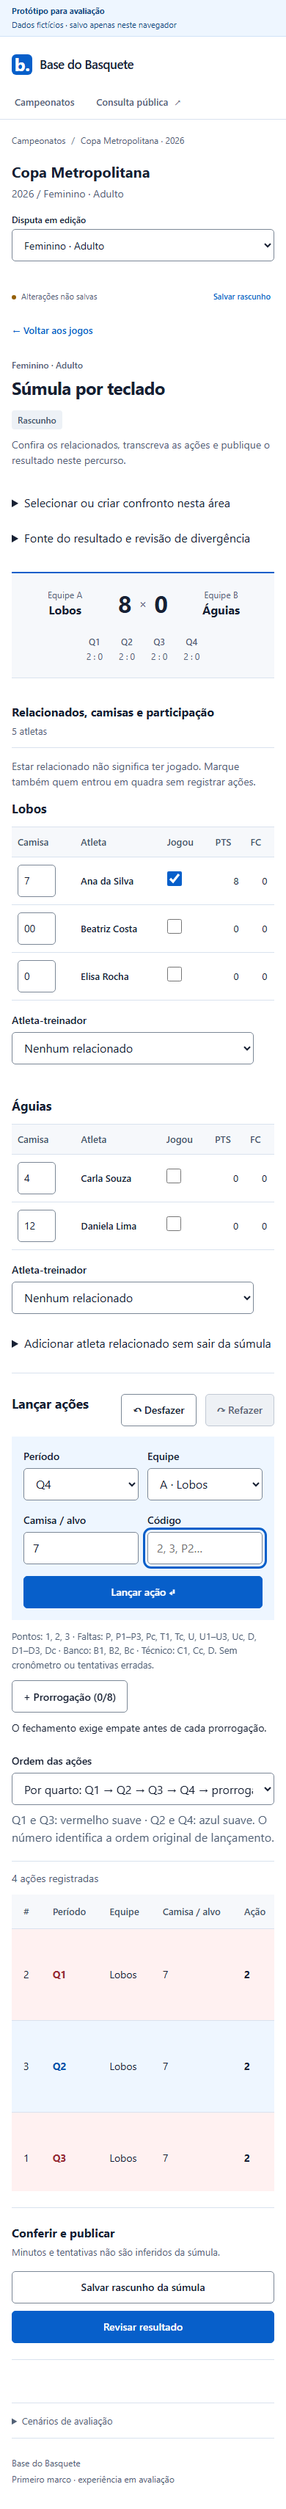
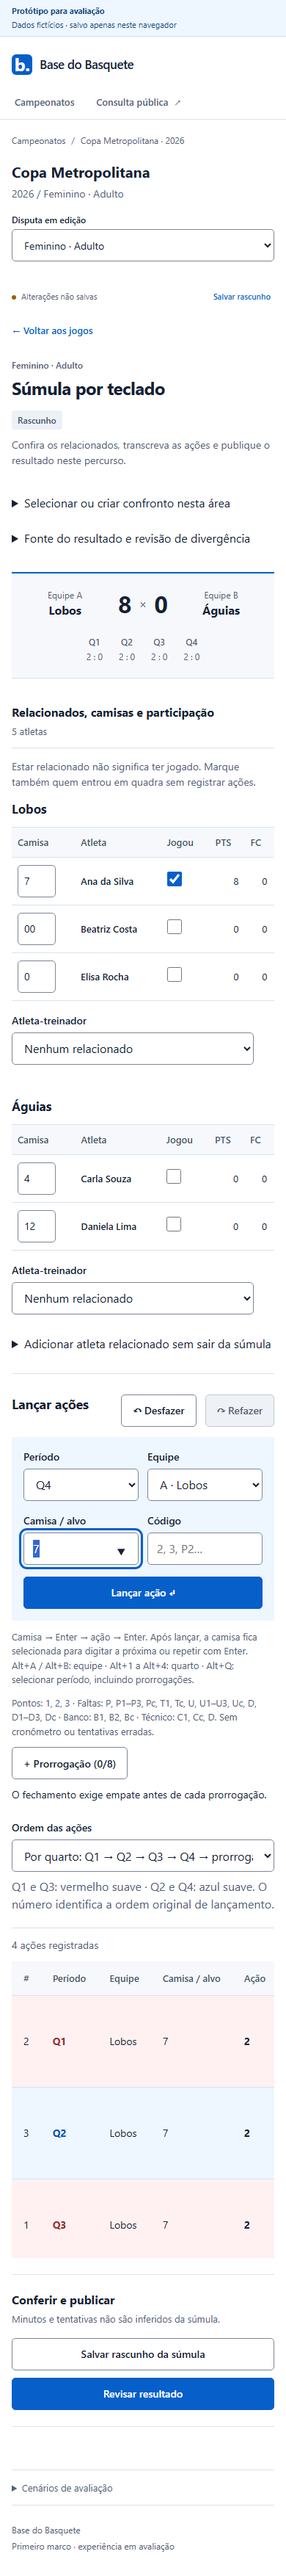
feat: enter scoresheet actions in a continuous keyboard cycle

diff --git a/src/scoresheet/workspace.tsx b/src/scoresheet/workspace.tsx
@@ -50,7 +50,39 @@ export function ScoresheetWorkspace({
     jersey: "",
   });
   const codeRef = useRef<HTMLInputElement>(null);
+  const targetRef = useRef<HTMLInputElement>(null);
+  const periodRef = useRef<HTMLSelectElement>(null);
   const deleteConfirmRef = useRef<HTMLHeadingElement>(null);
+  const focusTarget = () => {
+    targetRef.current?.focus();
+    targetRef.current?.select();
+  };
+  useEffect(() => {
+    const shortcut = (event: KeyboardEvent) => {
+      if (
+        !event.altKey ||
+        event.ctrlKey ||
+        event.metaKey ||
+        event.shiftKey ||
+        event.isComposing
+      )
+        return;
+      const key = event.key.toLowerCase();
+      if (!["a", "b", "q", "1", "2", "3", "4"].includes(key)) return;
+      event.preventDefault();
+      if (event.repeat) return;
+      if (key === "q") {
+        periodRef.current?.focus();
+        return;
+      }
+      if (key === "a" || key === "b") setSide(key === "a" ? "home" : "away");
+      else setPeriod(Number(key));
+      targetRef.current?.focus();
+      targetRef.current?.select();
+    };
+    window.addEventListener("keydown", shortcut);
+    return () => window.removeEventListener("keydown", shortcut);
+  }, []);
   useEffect(() => {
     deleteConfirmRef.current?.focus();
   }, [deletingId]);
@@ -65,36 +97,74 @@ export function ScoresheetWorkspace({
       return false;
     }
   };
+  const checkedTarget = () => {
+    const value = target.trim().toUpperCase();
+    if (
+      !["B", "C"].includes(value) &&
+      !sheet.roster.some((slot) => slot.side === side && slot.jersey === value)
+    ) {
+      setError(
+        "Camisa não relacionada à equipe selecionada. Confira a camisa ou use B/C.",
+      );
+      focusTarget();
+      return null;
+    }
+    setTarget(value);
+    return value;
+  };
+  const advanceToCode = () => {
+    if (checkedTarget() === null) return;
+    setError("");
+    codeRef.current?.focus();
+    codeRef.current?.select();
+  };
   const addEntry = () => {
+    const entryTarget = checkedTarget();
+    if (entryTarget === null) return;
     if (editingId) {
       try {
         if (
-          mutate(editAction(sheet, editingId, { side, period, target, code }))
+          mutate(
+            editAction(sheet, editingId, {
+              side,
+              period,
+              target: entryTarget,
+              code,
+            }),
+          )
         ) {
           setEditingId(null);
           setCode("");
+          focusTarget();
+        } else {
           codeRef.current?.focus();
+          codeRef.current?.select();
         }
       } catch (e) {
         setError((e as Error).message);
+        codeRef.current?.focus();
+        codeRef.current?.select();
       }
       return;
     }
     const next = structuredClone(sheet);
     const slot = next.roster.find(
-      (r) => r.side === side && r.jersey === target,
+      (r) => r.side === side && r.jersey === entryTarget,
     );
     if (slot) slot.played = true;
     next.events.push({
       id: crypto.randomUUID(),
       side,
       period,
-      target,
+      target: entryTarget,
       code: code.trim().toUpperCase(),
     });
     if (mutate(next)) {
       setCode("");
+      focusTarget();
+    } else {
       codeRef.current?.focus();
+      codeRef.current?.select();
     }
   };
   const createGame = () => {
@@ -630,8 +700,16 @@ export function ScoresheetWorkspace({
           <Field id="entry-period" label="Período">
             <select
               id="entry-period"
+              ref={periodRef}
+              aria-keyshortcuts="Alt+1 Alt+2 Alt+3 Alt+4 Alt+Q"
               value={period}
               onChange={(e) => setPeriod(Number(e.target.value))}
+              onKeyDown={(event) => {
+                if (event.key === "Enter") {
+                  event.preventDefault();
+                  if (!event.repeat) focusTarget();
+                }
+              }}
             >
               {Array.from({ length: sheet.periods }, (_, i) => (
                 <option key={i} value={i + 1}>
@@ -643,6 +721,7 @@ export function ScoresheetWorkspace({
           <Field id="entry-side" label="Equipe">
             <select
               id="entry-side"
+              aria-keyshortcuts="Alt+A Alt+B"
               value={side}
               onChange={(e) => {
                 const next = e.target.value as Side;
@@ -659,9 +738,19 @@ export function ScoresheetWorkspace({
           <Field id="entry-target" label="Camisa / alvo">
             <input
               id="entry-target"
+              ref={targetRef}
               list="entry-targets"
+              enterKeyHint="next"
+              autoComplete="off"
+              aria-describedby="entry-keyboard"
               value={target}
               onChange={(e) => setTarget(e.target.value)}
+              onKeyDown={(event) => {
+                if (event.key === "Enter" && !event.nativeEvent.isComposing) {
+                  event.preventDefault();
+                  if (!event.repeat) advanceToCode();
+                }
+              }}
               placeholder="7, 00, B ou C"
             />
           </Field>
@@ -678,11 +767,18 @@ export function ScoresheetWorkspace({
             <input
               id="entry-code"
               ref={codeRef}
+              enterKeyHint="done"
               value={code}
               maxLength={3}
               aria-invalid={!!error}
               aria-describedby={error ? "sheet-error" : "entry-help"}
               onChange={(e) => setCode(e.target.value)}
+              onKeyDown={(event) => {
+                if (event.key === "Enter" && !event.nativeEvent.isComposing) {
+                  event.preventDefault();
+                  if (!event.repeat) addEntry();
+                }
+              }}
               autoComplete="off"
               placeholder="2, 3, P2…"
             />
@@ -704,6 +800,12 @@ export function ScoresheetWorkspace({
             </button>
           )}
         </form>
+        <p id="entry-keyboard" className="muted">
+          Camisa → Enter → ação → Enter. Após lançar, a camisa fica selecionada
+          para digitar a próxima ou repetir com Enter. Alt+A / Alt+B: equipe ·
+          Alt+1 a Alt+4: quarto · Alt+Q: selecionar período, incluindo
+          prorrogações.
+        </p>
         <p id="entry-help" className="muted">
           Pontos: 1, 2, 3 · Faltas: P, P1–P3, Pc, T1, Tc, U, U1–U3, Uc, D,
           D1–D3, Dc · Banco: B1, B2, Bc · Técnico: C1, Cc, D. Sem cronômetro ou

diff --git a/tests/scoresheet-keyboard.spec.ts b/tests/scoresheet-keyboard.spec.ts
@@ -1,0 +1,116 @@
+import { expect, test } from "@playwright/test";
+
+test("camisa Enter ação Enter permite transcrever a sequência inteira sem mouse", async ({
+  page,
+}) => {
+  await page.goto("/#/sumula");
+  await page.getByLabel("Camisa de Ana da Silva").fill("12");
+  await page.getByLabel("Camisa de Beatriz Costa").fill("77");
+  await page.getByLabel("Camisa de Elisa Rocha").fill("23");
+  await page
+    .getByText("Adicionar atleta relacionado sem sair da súmula", {
+      exact: true,
+    })
+    .click();
+  await page
+    .getByLabel("Nome do atleta", { exact: true })
+    .fill("Marina Santos");
+  await page.getByLabel("Camisa", { exact: true }).fill("34");
+  await page
+    .getByRole("button", { name: "Adicionar relacionado", exact: true })
+    .click();
+  const target = page.getByLabel("Camisa / alvo", { exact: true });
+  const code = page.getByLabel("Código", { exact: true });
+  const rows = page
+    .getByRole("region", { name: "Ações da súmula", exact: true })
+    .locator("tbody tr");
+  await target.focus();
+  await page.keyboard.press("ControlOrMeta+A");
+  const actions = [
+    ["12", "P2"],
+    ["77", "3"],
+    ["23", "2"],
+    ["23", "3"],
+    ["77", "1"],
+    ["77", "1"],
+    ["34", "U2"],
+  ];
+  for (let i = 0; i < actions.length; i++) {
+    await page.keyboard.type(actions[i][0]);
+    await page.keyboard.press("Enter");
+    await expect(code).toBeFocused();
+    if (i) await expect(rows).toHaveCount(i);
+    else
+      await expect(
+        page.getByRole("button", { name: "Editar ação 1", exact: true }),
+      ).toHaveCount(0);
+    await page.keyboard.type(actions[i][1]);
+    await page.keyboard.press("Enter");
+    await expect(target).toBeFocused();
+    await expect(code).toHaveValue("");
+  }
+  await expect(rows.locator("td:nth-child(4)")).toHaveText(
+    actions.map((x) => x[0]),
+  );
+  await expect(rows.locator("td:nth-child(5)")).toHaveText(
+    actions.map((x) => x[1]),
+  );
+  await expect(page.locator(".score")).toHaveText("10×0");
+});
+
+test("atalhos trocam equipe/quarto, mantêm 0 e 00 e erros não avançam nem duplicam ações", async ({
+  page,
+}) => {
+  await page.goto("/#/sumula");
+  const target = page.getByLabel("Camisa / alvo", { exact: true });
+  const code = page.getByLabel("Código", { exact: true });
+  await page.keyboard.press("Alt+b");
+  await expect(page.getByLabel("Equipe", { exact: true })).toHaveValue("away");
+  await expect(target).toBeFocused();
+  await page.keyboard.press("Alt+3");
+  await expect(page.getByLabel("Período", { exact: true })).toHaveValue("3");
+  await page.keyboard.type("4");
+  await page.keyboard.press("Enter");
+  await page.keyboard.type("2");
+  await page.keyboard.press("Enter");
+  await page.keyboard.press("Alt+a");
+  await expect(page.getByLabel("Equipe", { exact: true })).toHaveValue("home");
+  await page.keyboard.press("Alt+q");
+  await expect(page.getByLabel("Período", { exact: true })).toBeFocused();
+  await page.keyboard.press("ArrowDown");
+  await page.keyboard.press("Enter");
+  await expect(target).toBeFocused();
+  await expect(page.getByLabel("Período", { exact: true })).toHaveValue("4");
+  await page.keyboard.type("00");
+  await page.keyboard.press("Enter");
+  await page.keyboard.type("3");
+  await page.keyboard.press("Enter");
+  await page.keyboard.type("0");
+  await page.keyboard.press("Enter");
+  await page.keyboard.type("2");
+  await page.keyboard.press("Enter");
+  await expect(page.locator(".score")).toHaveText("5×2");
+  await page.keyboard.type("99");
+  await page.keyboard.press("Enter");
+  await expect(target).toBeFocused();
+  await expect(target).toHaveValue("99");
+  await expect(
+    page.getByRole("alert").filter({ hasText: "Camisa não relacionada" }),
+  ).toBeVisible();
+  await page.keyboard.type("7");
+  await page.keyboard.press("Enter");
+  await page.keyboard.type("X");
+  await page.keyboard.press("Enter");
+  await expect(code).toBeFocused();
+  await expect(code).toHaveValue("X");
+  await expect(target).toHaveValue("7");
+  await page.keyboard.type("2");
+  await page.keyboard.press("Enter");
+  await expect(target).toBeFocused();
+  await expect(page.locator(".score")).toHaveText("7×2");
+  await expect(
+    page
+      .getByRole("region", { name: "Ações da súmula", exact: true })
+      .locator("tbody tr"),
+  ).toHaveCount(4);
+});

diff --git a/docs/AJUSTES-DE-EXPERIENCIA.md b/docs/AJUSTES-DE-EXPERIENCIA.md
@@ -12,3 +12,15 @@
 - Em resultado publicado, alterar o rascunho da revisão e exigir motivo, prévia e republicação para produzir outra versão; manter a anterior.
 
 Implementação no protótipo, com dados fictícios e persistência local. Segurança de escrita, auditoria e persistência de servidor continuam nos próximos marcos. Validação humana dos ajustes ainda pendente.
+
+## Súmula: ciclo de teclado e atalhos
+
+Solicitação adicional do responsável em 22/10: operar o lançamento por `camisa → Enter → ação → Enter`, com atletas diferentes e repetidos, e trocar equipe/quarto por atalhos.
+
+- Enter na camisa valida o alvo e avança ao código sem registrar ação. Enter no código registra uma única ação válida e retorna à camisa com o valor selecionado; digitar substitui a camisa anterior, Enter permite repeti-la. Não confundir 0 e 00.
+- Erro mantém camisa/código para correção e não avança nem cria ação. Eventos repetidos de Enter mantido pressionado não registram novos lançamentos no ciclo de entrada. Códigos B/C continuam possíveis.
+- `Alt+A` e `Alt+B`: selecionar equipe A/B e focar a camisa. `Alt+1` até `Alt+4`: selecionar quarto e focar a camisa. `Alt+Q`: focar o seletor de período; setas escolhem também prorrogações existentes e Enter retorna à camisa.
+- Trocar equipe/quarto não registra ação e mantém os campos ainda não lançados; a camisa precisa pertencer à equipe selecionada antes de prosseguir. Atalhos com Ctrl/Meta/Shift ou durante composição de texto não são interceptados.
+- Informar o ciclo e os atalhos na própria área de lançamento. Manter seletores, botões e navegação por Tab para acesso convencional.
+
+Os testes reproduzem integralmente o exemplo `12/P2, 77/3, 23/2, 23/3, 77/1, 77/1, 34/U2` somente com teclado após preparar os relacionados. São verificados também atalhos, 0/00 e retomada após erros em desktop/celular.

diff --git a/docs/VALIDACAO-PROTOTIPO.md b/docs/VALIDACAO-PROTOTIPO.md
@@ -54,4 +54,6 @@ Publicado no mesmo preview protegido: aplicação `f8b6663`, transporte `7e8d4f5
 
 Responsável, data e decisão: pendentes.
 
+Solicitação adicional de teclado aplicada: `camisa → Enter → ação → Enter`, retorno à camisa selecionada, Alt+A/B para equipe, Alt+1–4 para quarto e Alt+Q para selecionar período/OT. Conferir a sequência enviada pelo responsável, sem mouse depois de preparar os relacionados; erros devem manter valores e foco para correção, sem lançar ações. Gate atualizado aprovado com 46 testes unitários/três de transporte e **24 cenários de navegador**, incluindo quatro novas execuções desktop/celular do ciclo e dos atalhos. O mesmo teste cobre 0/00 e repetição de camisa. Detalhes em `docs/AJUSTES-DE-EXPERIENCIA.md`.
+
 Registrar ajustes de composição/interação e aprovação individual dos três percursos no issue e PR deste marco. Depois do aceite, o próximo plano é a fundação full-stack, com novo projeto Supabase, acesso por senha e preview protegido conforme o pacote.
